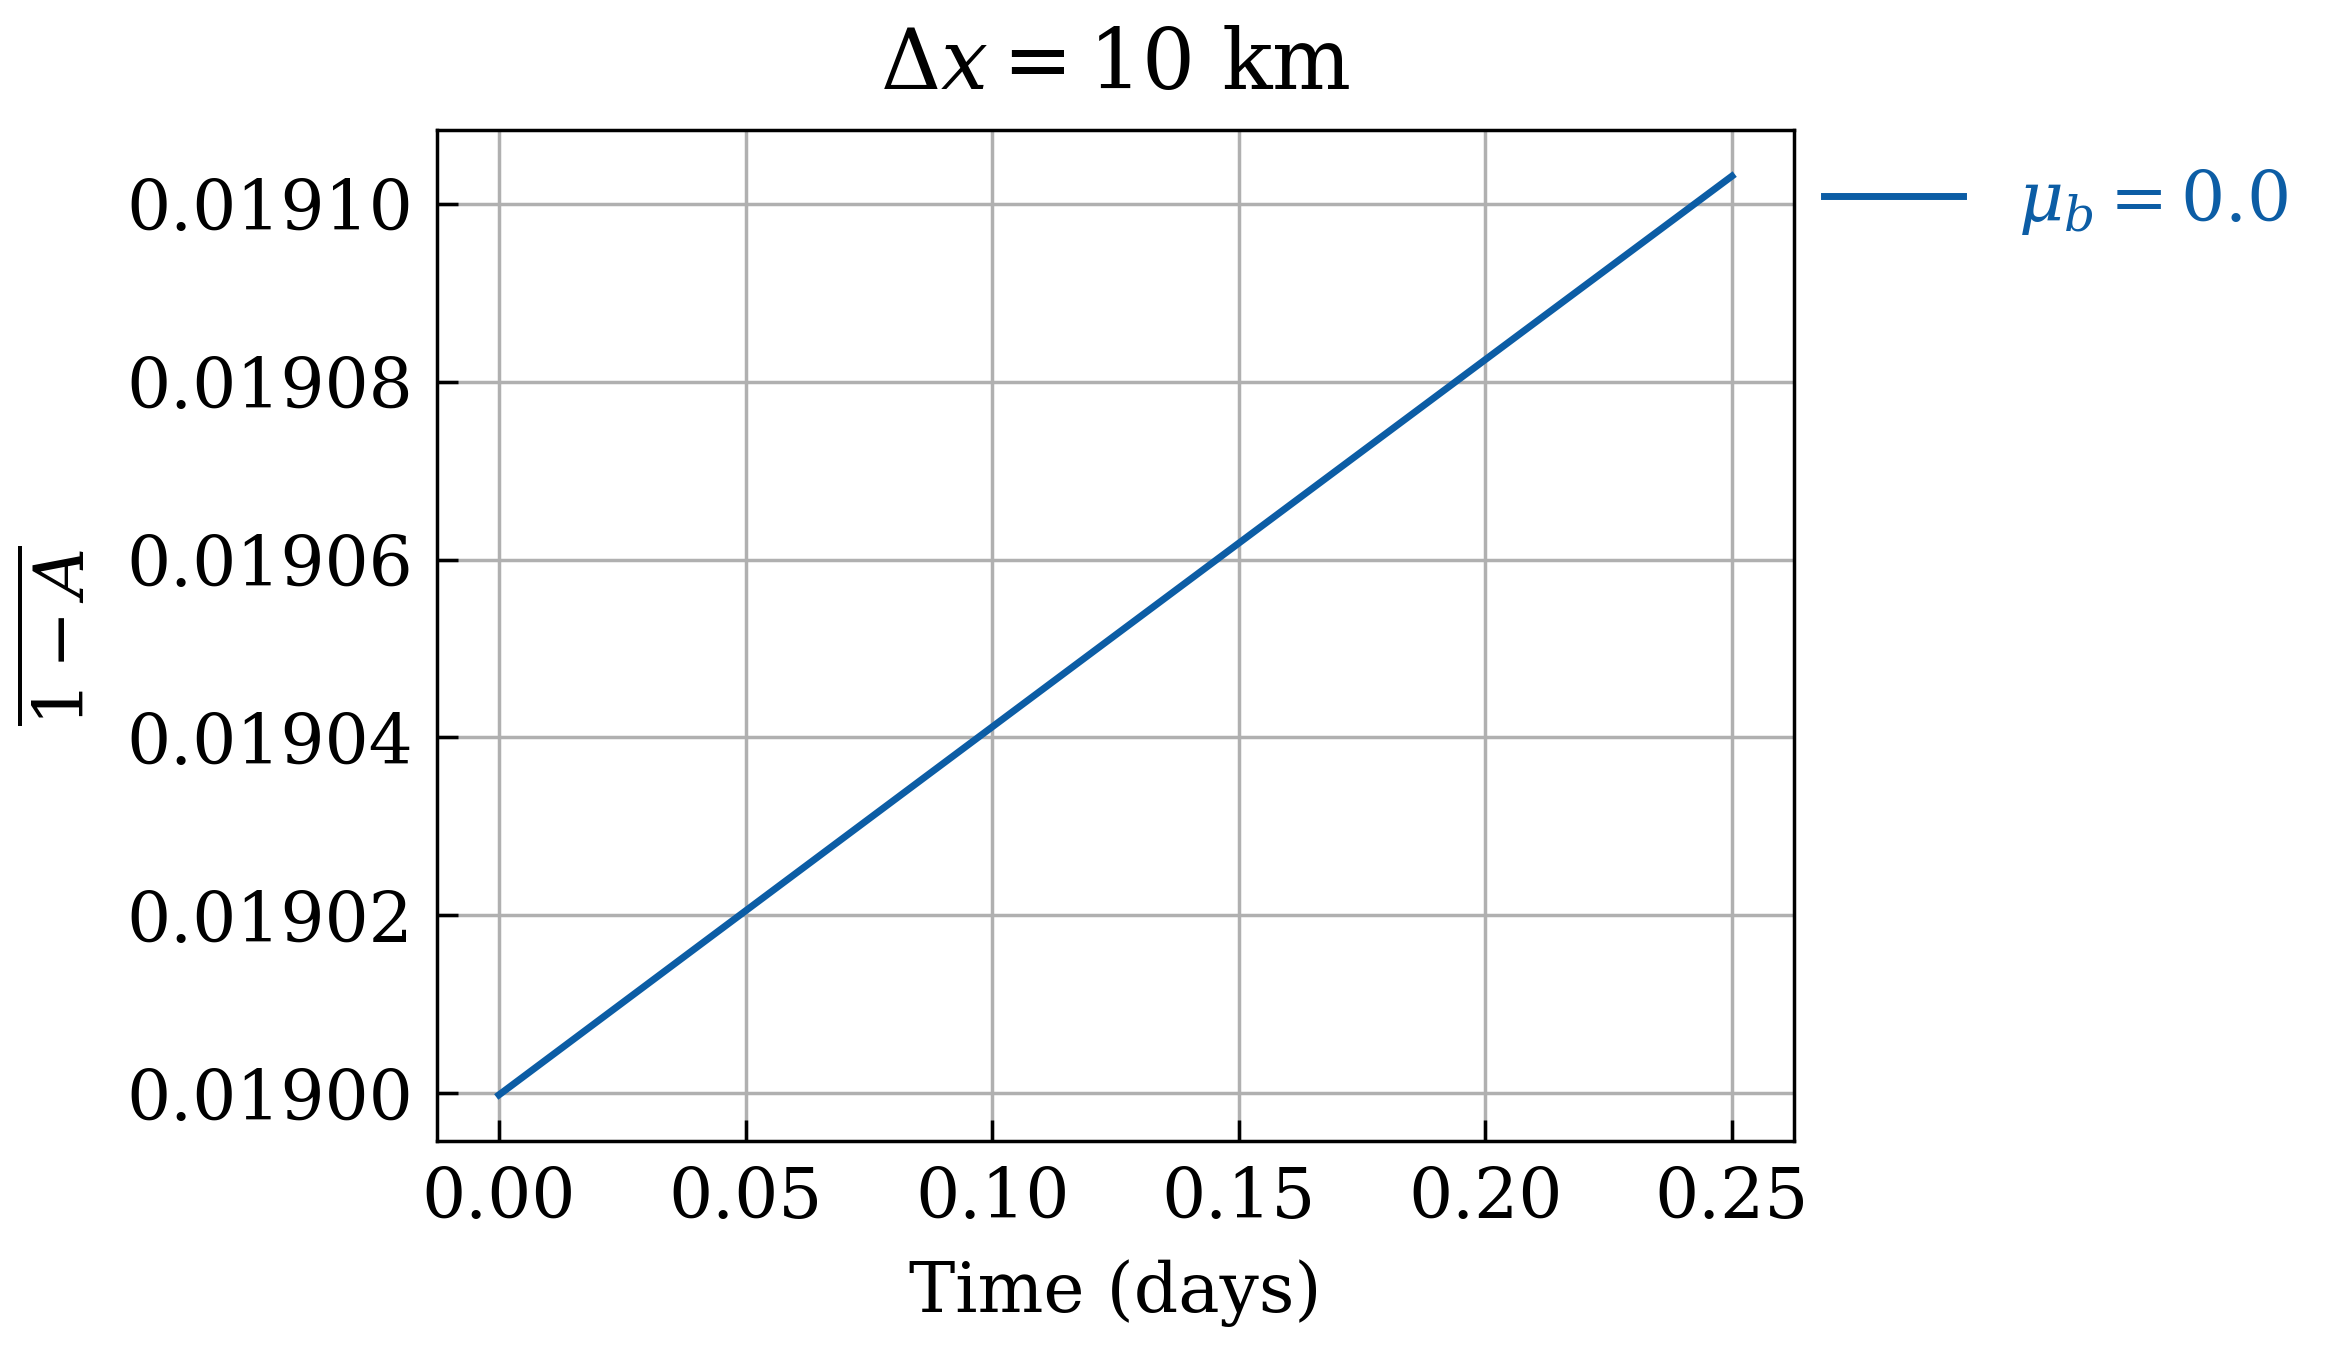
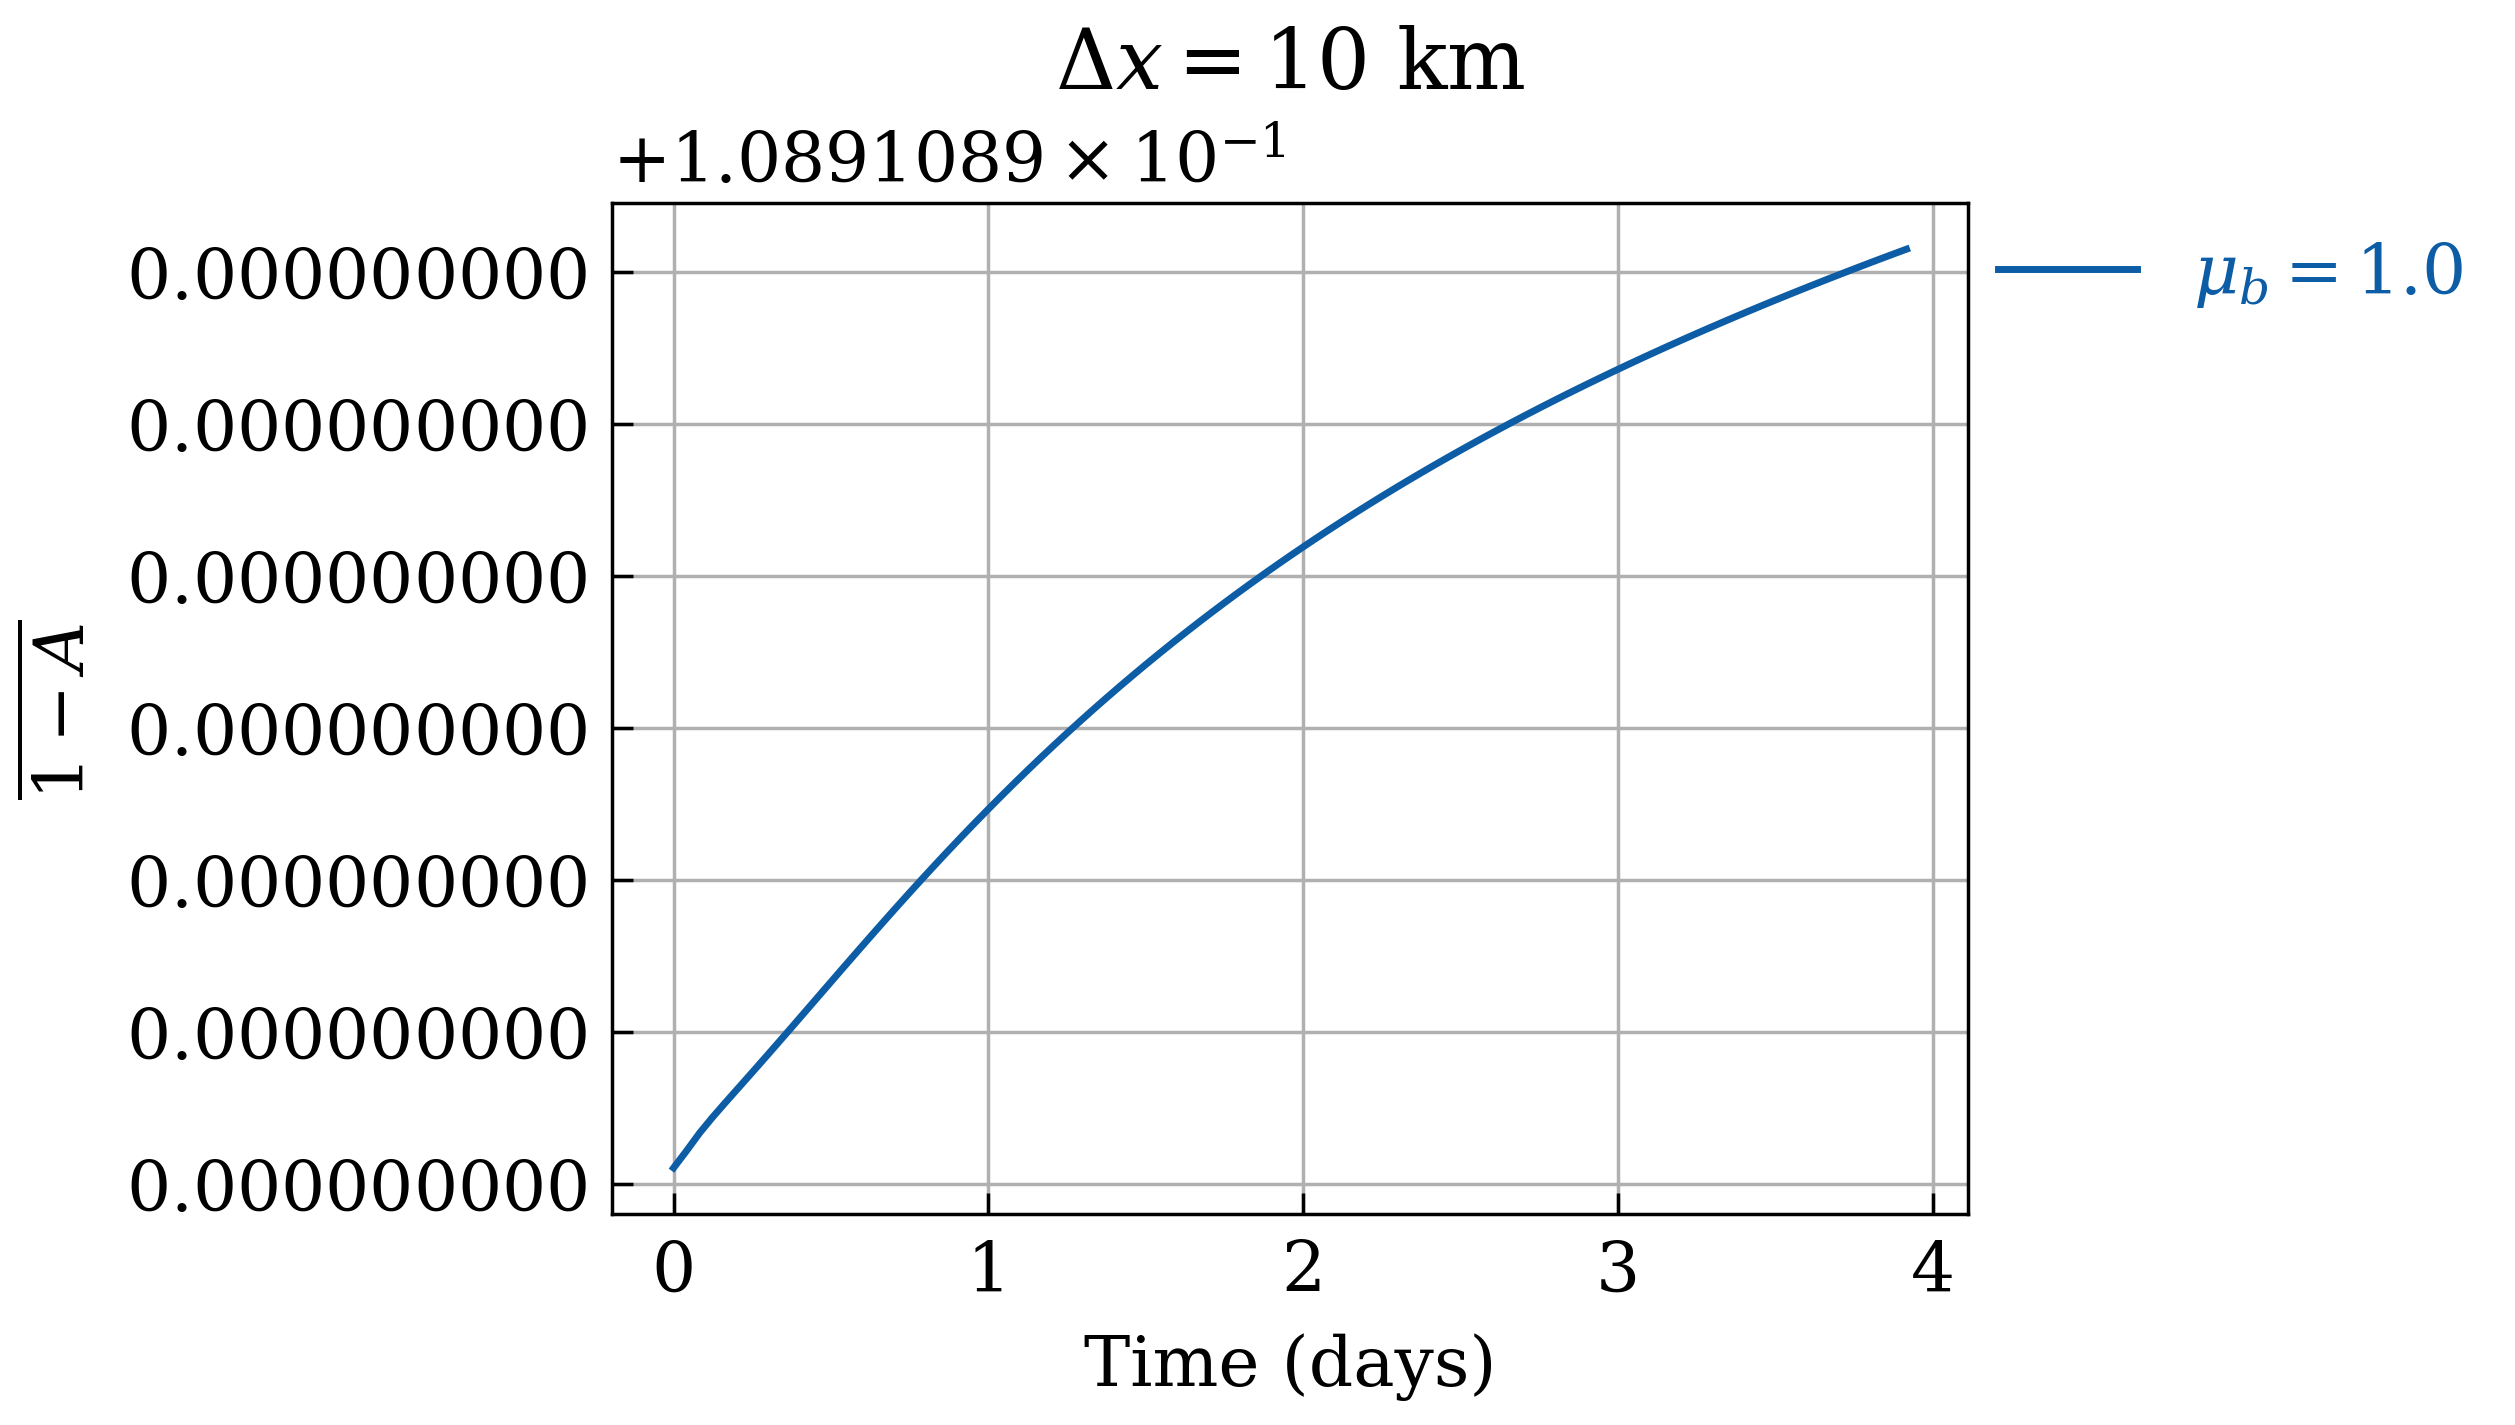
added cosinus and gaussian winds

diff --git a/simplotting/simplotting/plotting/plot.py b/simplotting/simplotting/plotting/plot.py
@@ -6,6 +6,7 @@ import matplotlib.path as mpath
 import cartopy.crs as ccrs
 import cartopy.feature as cfeature
 import matplotlib.lines as mlines
+import matplotlib.ticker as ticker
 
 import cmocean
 # import scienceplots
@@ -419,7 +420,11 @@ def dilatation(netcdfdir, expnos, Parameters):
             dilatation_time.append(dilat)
             
         ax.plot(time, dilatation_time, label = r'$\mu_b = {}$'.format(mubs[i]))
-
+    # ax.set_ylim(0.108, 0.109)
+    formatter = ticker.ScalarFormatter(useMathText=True)
+    formatter.set_scientific(True)
+    formatter.set_powerlimits((-np.inf, np.inf))  # Always use scientific notation
+    ax.yaxis.set_major_formatter(formatter)
     ax.set_ylabel(r'$\overline{1-A}$')
     ax.set_xlabel(r'Time (days)')
     ax.set_title(r'$\Delta x = {}$ km'.format(int(Parameters.dx/1000)))
